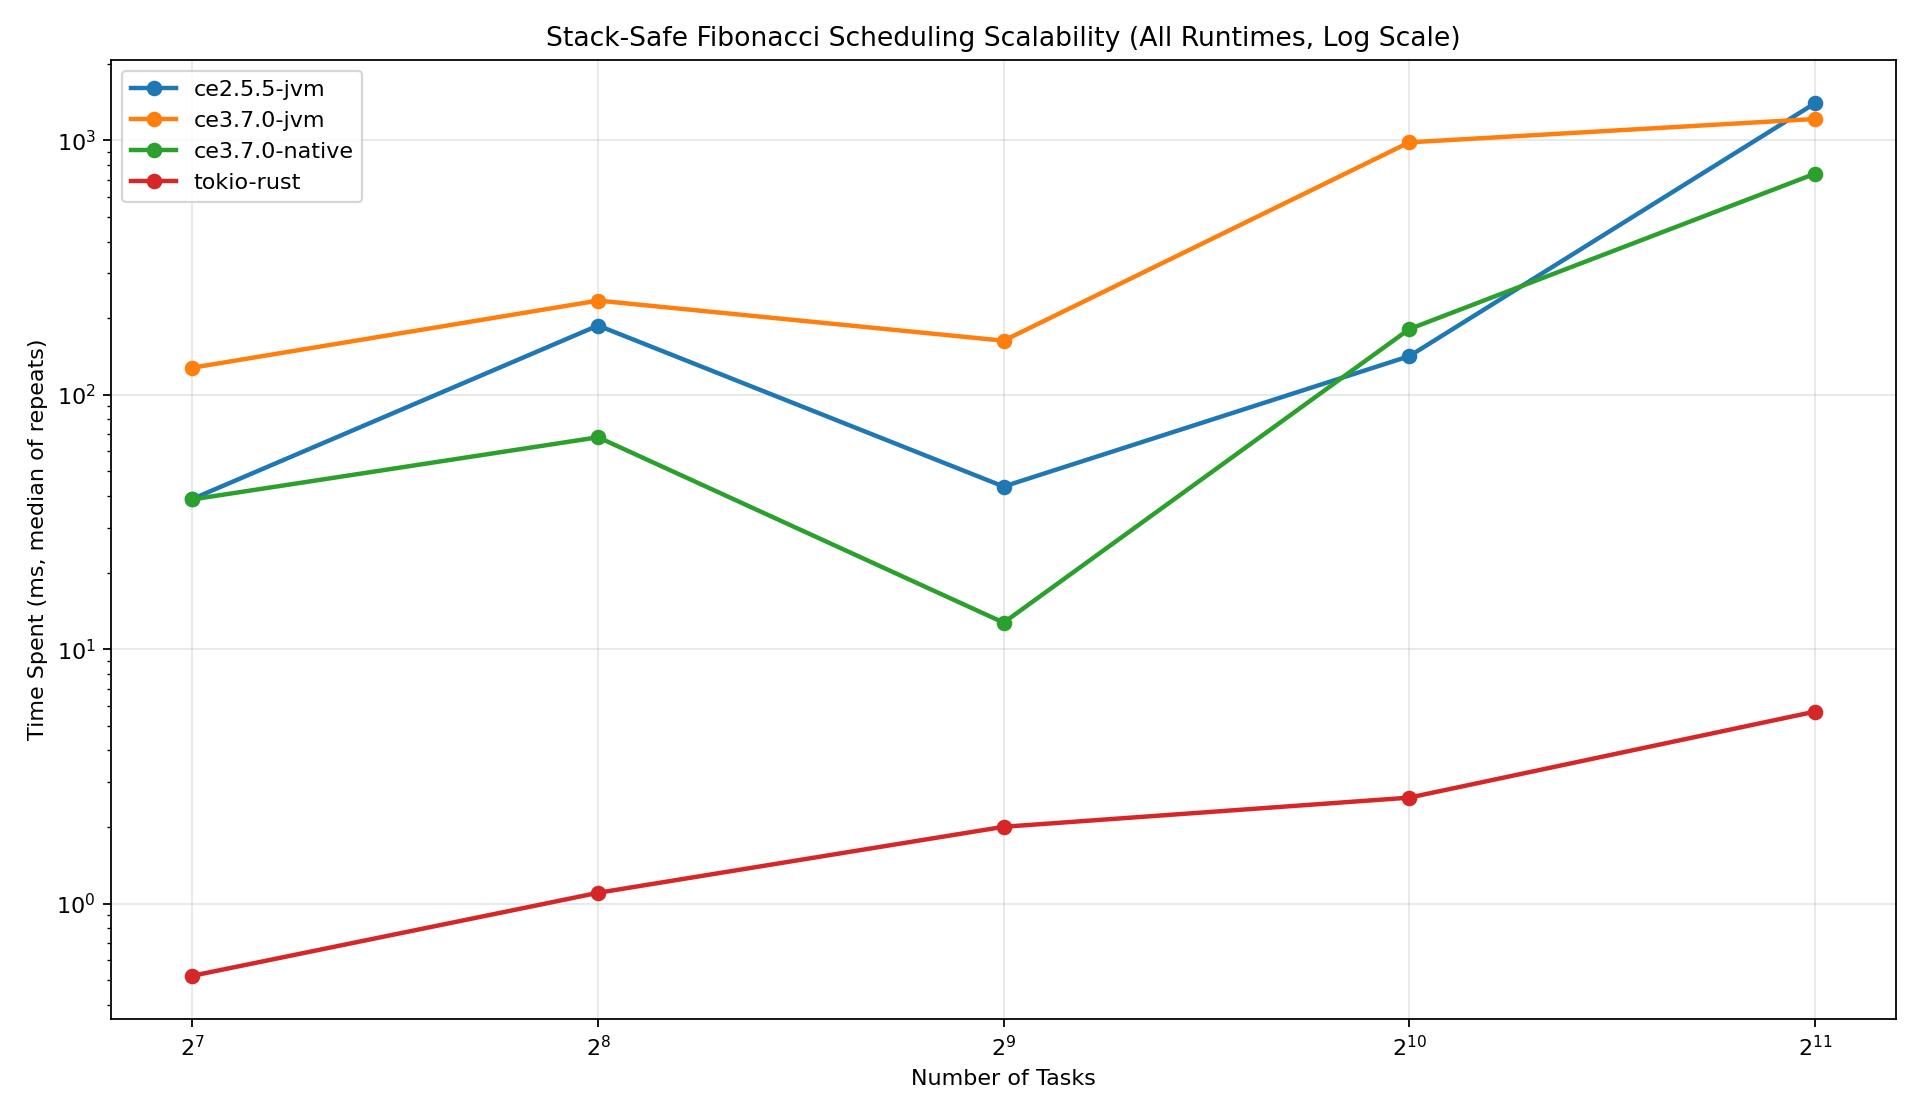
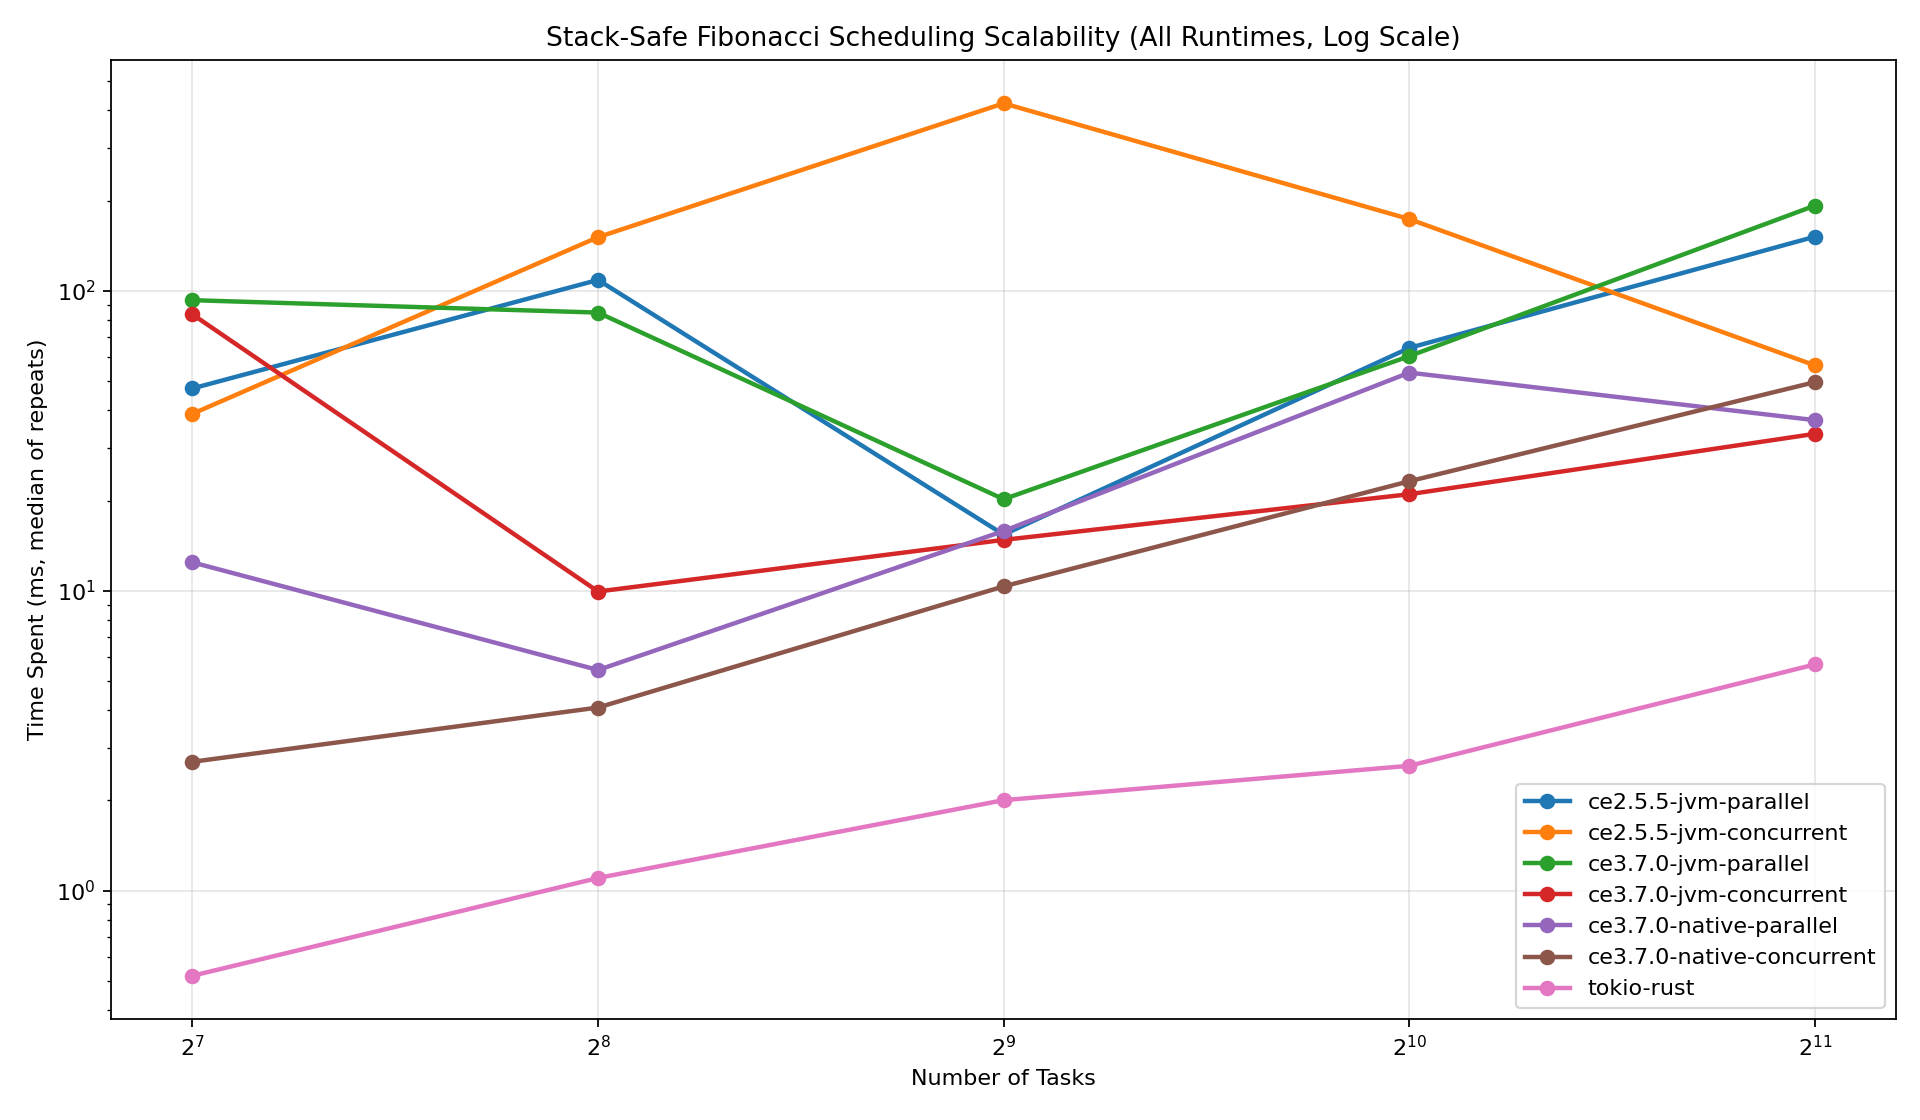
Benchmark CE parallel vs concurrent and generate 7 single linear + 2 combined charts

diff --git a/benchmarks/README.md b/benchmarks/README.md
@@ -35,8 +35,11 @@ Outputs:
 - Combined charts:
   - `benchmarks/results/time-vs-tasks.png` (linear)
   - `benchmarks/results/time-vs-tasks-log.png` (log)
-- Per-runtime charts (each in linear + log):
-  - `benchmarks/results/time-vs-tasks-ce2.5.5-jvm*.png`
-  - `benchmarks/results/time-vs-tasks-ce3.7.0-jvm*.png`
-  - `benchmarks/results/time-vs-tasks-ce3.7.0-native*.png`
-  - `benchmarks/results/time-vs-tasks-tokio-rust*.png`
+- Per-runtime charts (linear only; expected 7 series = rust + 3 parallel + 3 concurrent):
+  - `benchmarks/results/time-vs-tasks-tokio-rust.png`
+  - `benchmarks/results/time-vs-tasks-ce2.5.5-jvm-parallel.png`
+  - `benchmarks/results/time-vs-tasks-ce2.5.5-jvm-concurrent.png`
+  - `benchmarks/results/time-vs-tasks-ce3.7.0-jvm-parallel.png`
+  - `benchmarks/results/time-vs-tasks-ce3.7.0-jvm-concurrent.png`
+  - `benchmarks/results/time-vs-tasks-ce3.7.0-native-parallel.png`
+  - `benchmarks/results/time-vs-tasks-ce3.7.0-native-concurrent.png`
